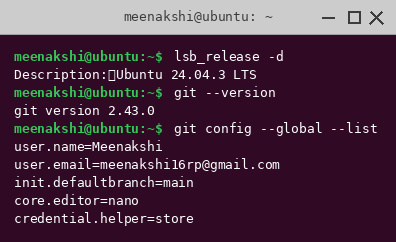
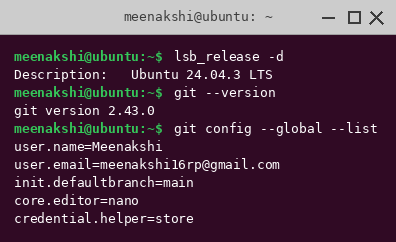
Render captured console output as terminal-style images (Windows chrome)

Changed region(s): [[0.2727, 0.2893, 0.697, 0.3471]]

diff --git a/docs/render_term_images.py b/docs/render_term_images.py
@@ -96,7 +96,7 @@ render("render-polling-log.png", "meenakshi@ubuntu: ~/git-polling-log",
 # git installation & verification output (real command output from Ubuntu)
 render("render-git-verify.png", "meenakshi@ubuntu: ~",
        'meenakshi@ubuntu:~$ lsb_release -d\n'
-       'Description:\tUbuntu 24.04.3 LTS\n'
+       'Description:   Ubuntu 24.04.3 LTS\n'
        'meenakshi@ubuntu:~$ git --version\n'
        'git version 2.43.0\n'
        'meenakshi@ubuntu:~$ git config --global --list\n'
